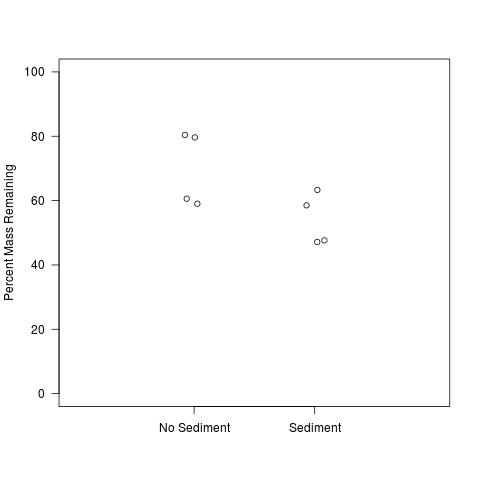
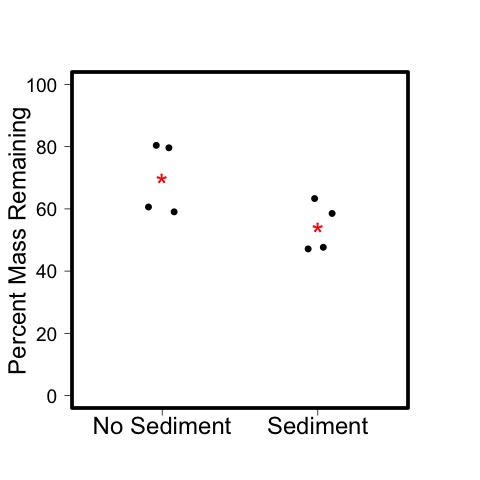
plots for ASB

diff --git a/lab_notebook/analysis/leached_litter_LOI_analysis.md b/lab_notebook/analysis/leached_litter_LOI_analysis.md
@@ -81,14 +81,16 @@ Residuals             6 604.38  100.73
 
 #### Plots
 
-    par(las = 1)
-    plot(perc.mass.rem ~ jitter(treatment, 0.5), ylim = c(0, 100), xlim = c(0, 3), axes = F, xlab = " ", ylab = "Percent Mass Remaining")
-    axis(2)
-    axis(1, c("No Sediment", "Sediment"), at = c(1, 2))
-    box()
+    par(las = 1, mar = c(5, 5, 5, 5), lwd = 2)
+    plot(perc.mass.rem ~ jitter(treatment, 0.5), ylim = c(0, 100), xlim = c(0.5, 2.5), axes = F, xlab = " ", ylab = "Percent Mass Remaining", cex.lab = 1.5, pch = 19)
+    axis(2, cex.axis = 1.2)
+    axis(1, c("No Sediment", "Sediment"), at = c(1, 2), cex.axis = 1.5)
+    box(lwd = 5)
+    text(1, mean(perc.mass.rem[treatment == 1]), "*", cex = 2, col = "red")
+    text(2, mean(perc.mass.rem[treatment == 2]), "*", cex = 2, col = "red")
     dev.copy(jpeg, "./output/plots/perc_mass_rem_by_treatment.jpg")
     dev.off()
 
 ![Plot of percent leaf mass remaining by sediment presence](../output/plots/perc_mass_rem_by_treatment.jpg)
 
-FIGURE: Plot of the percent leaf mass remaining by the presence of sediment in the bottles in the Leached Litter Experiment. Each point represents the average mass loss of a single leaf estimated from the change in mass of all of the leaves in the bottle.
+FIGURE: Plot of the percent leaf mass remaining by the presence of sediment in the bottles in the Leached Litter Experiment. Each point represents the average mass loss of a single leaf estimated from the change in mass of all of the leaves in the bottle. The red star indicates the mean.
